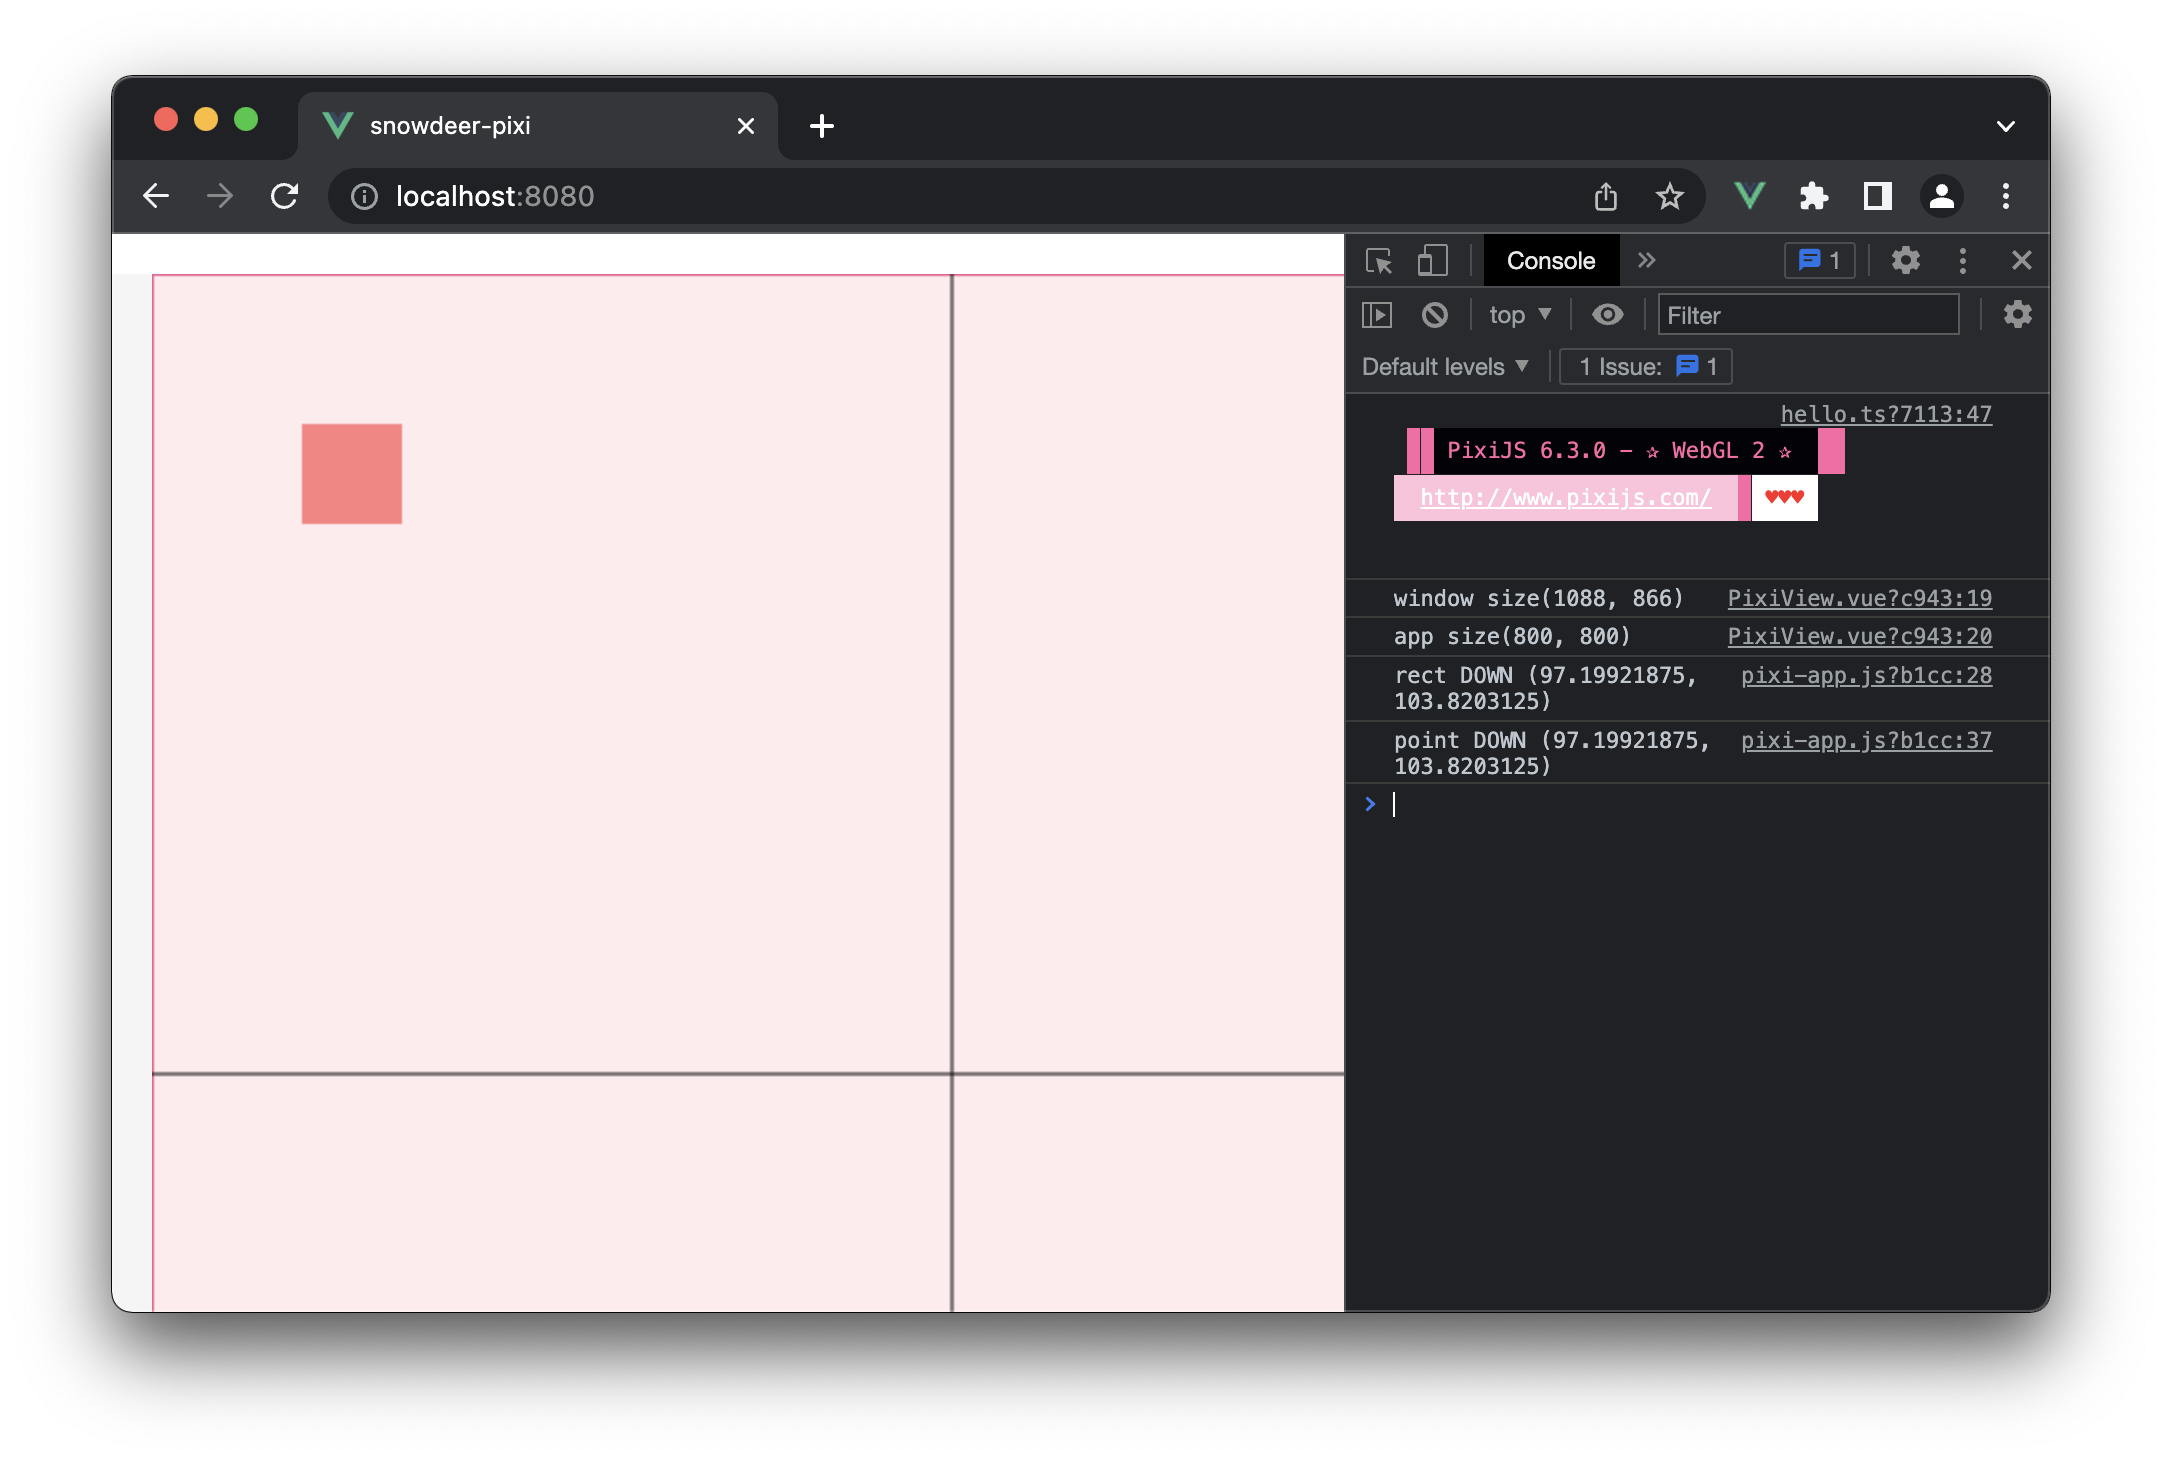
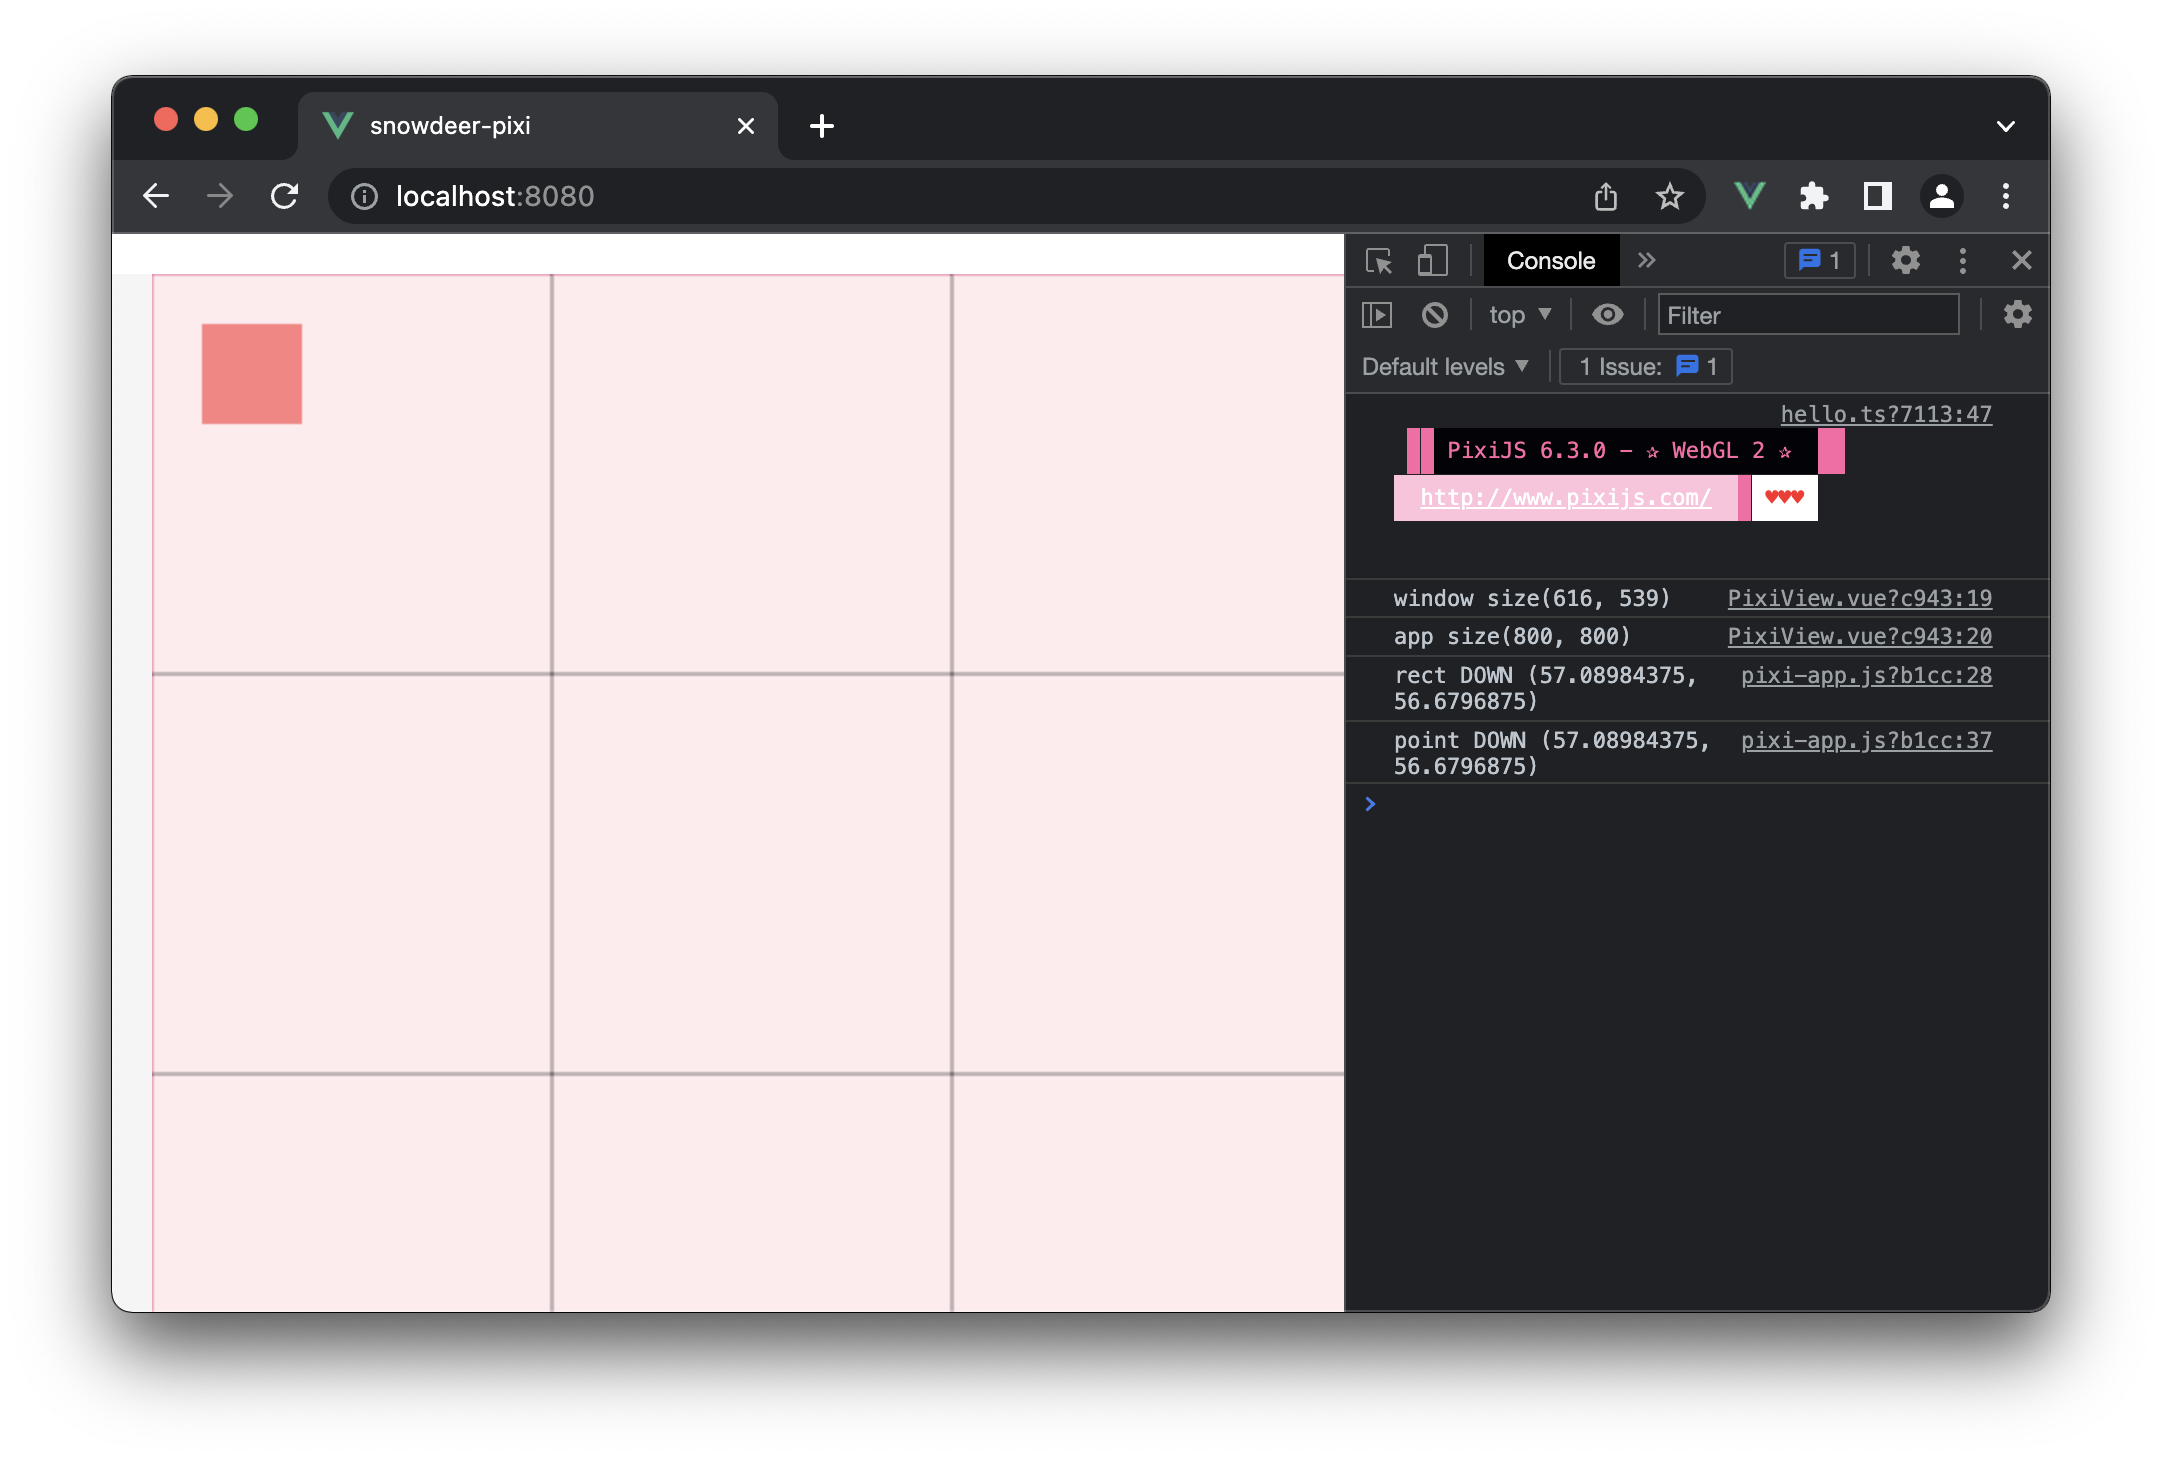
pixi

diff --git a/_posts/javascript/2022-04-19-pixijs-basic-on-viewport.md b/_posts/javascript/2022-04-19-pixijs-basic-on-viewport.md
@@ -86,8 +86,8 @@ class PixiApp extends PIXI.Application {
     const viewport = new Viewport({
       screenWidth: width,
       screenHeight: height,
-      worldWidth: width / 2,
-      worldHeight: height / 2,
+      worldWidth: width * 2,
+      worldHeight: height * 2,
 
       interaction: this.renderer.plugins.interaction, // the interaction module is important for wheel to work properly when renderer.view is placed or scaled
     });
@@ -111,7 +111,7 @@ class PixiApp extends PIXI.Application {
     });
   }
 
-  #createRect(centerX, centerY, width = 50, height = 50) {
+  #createRect(centerX, centerY, width = 100, height = 100) {
     const rect = new PIXI.Graphics();
     rect.beginFill(0xff8080);
     rect.drawRect(0, 0, width, height);
